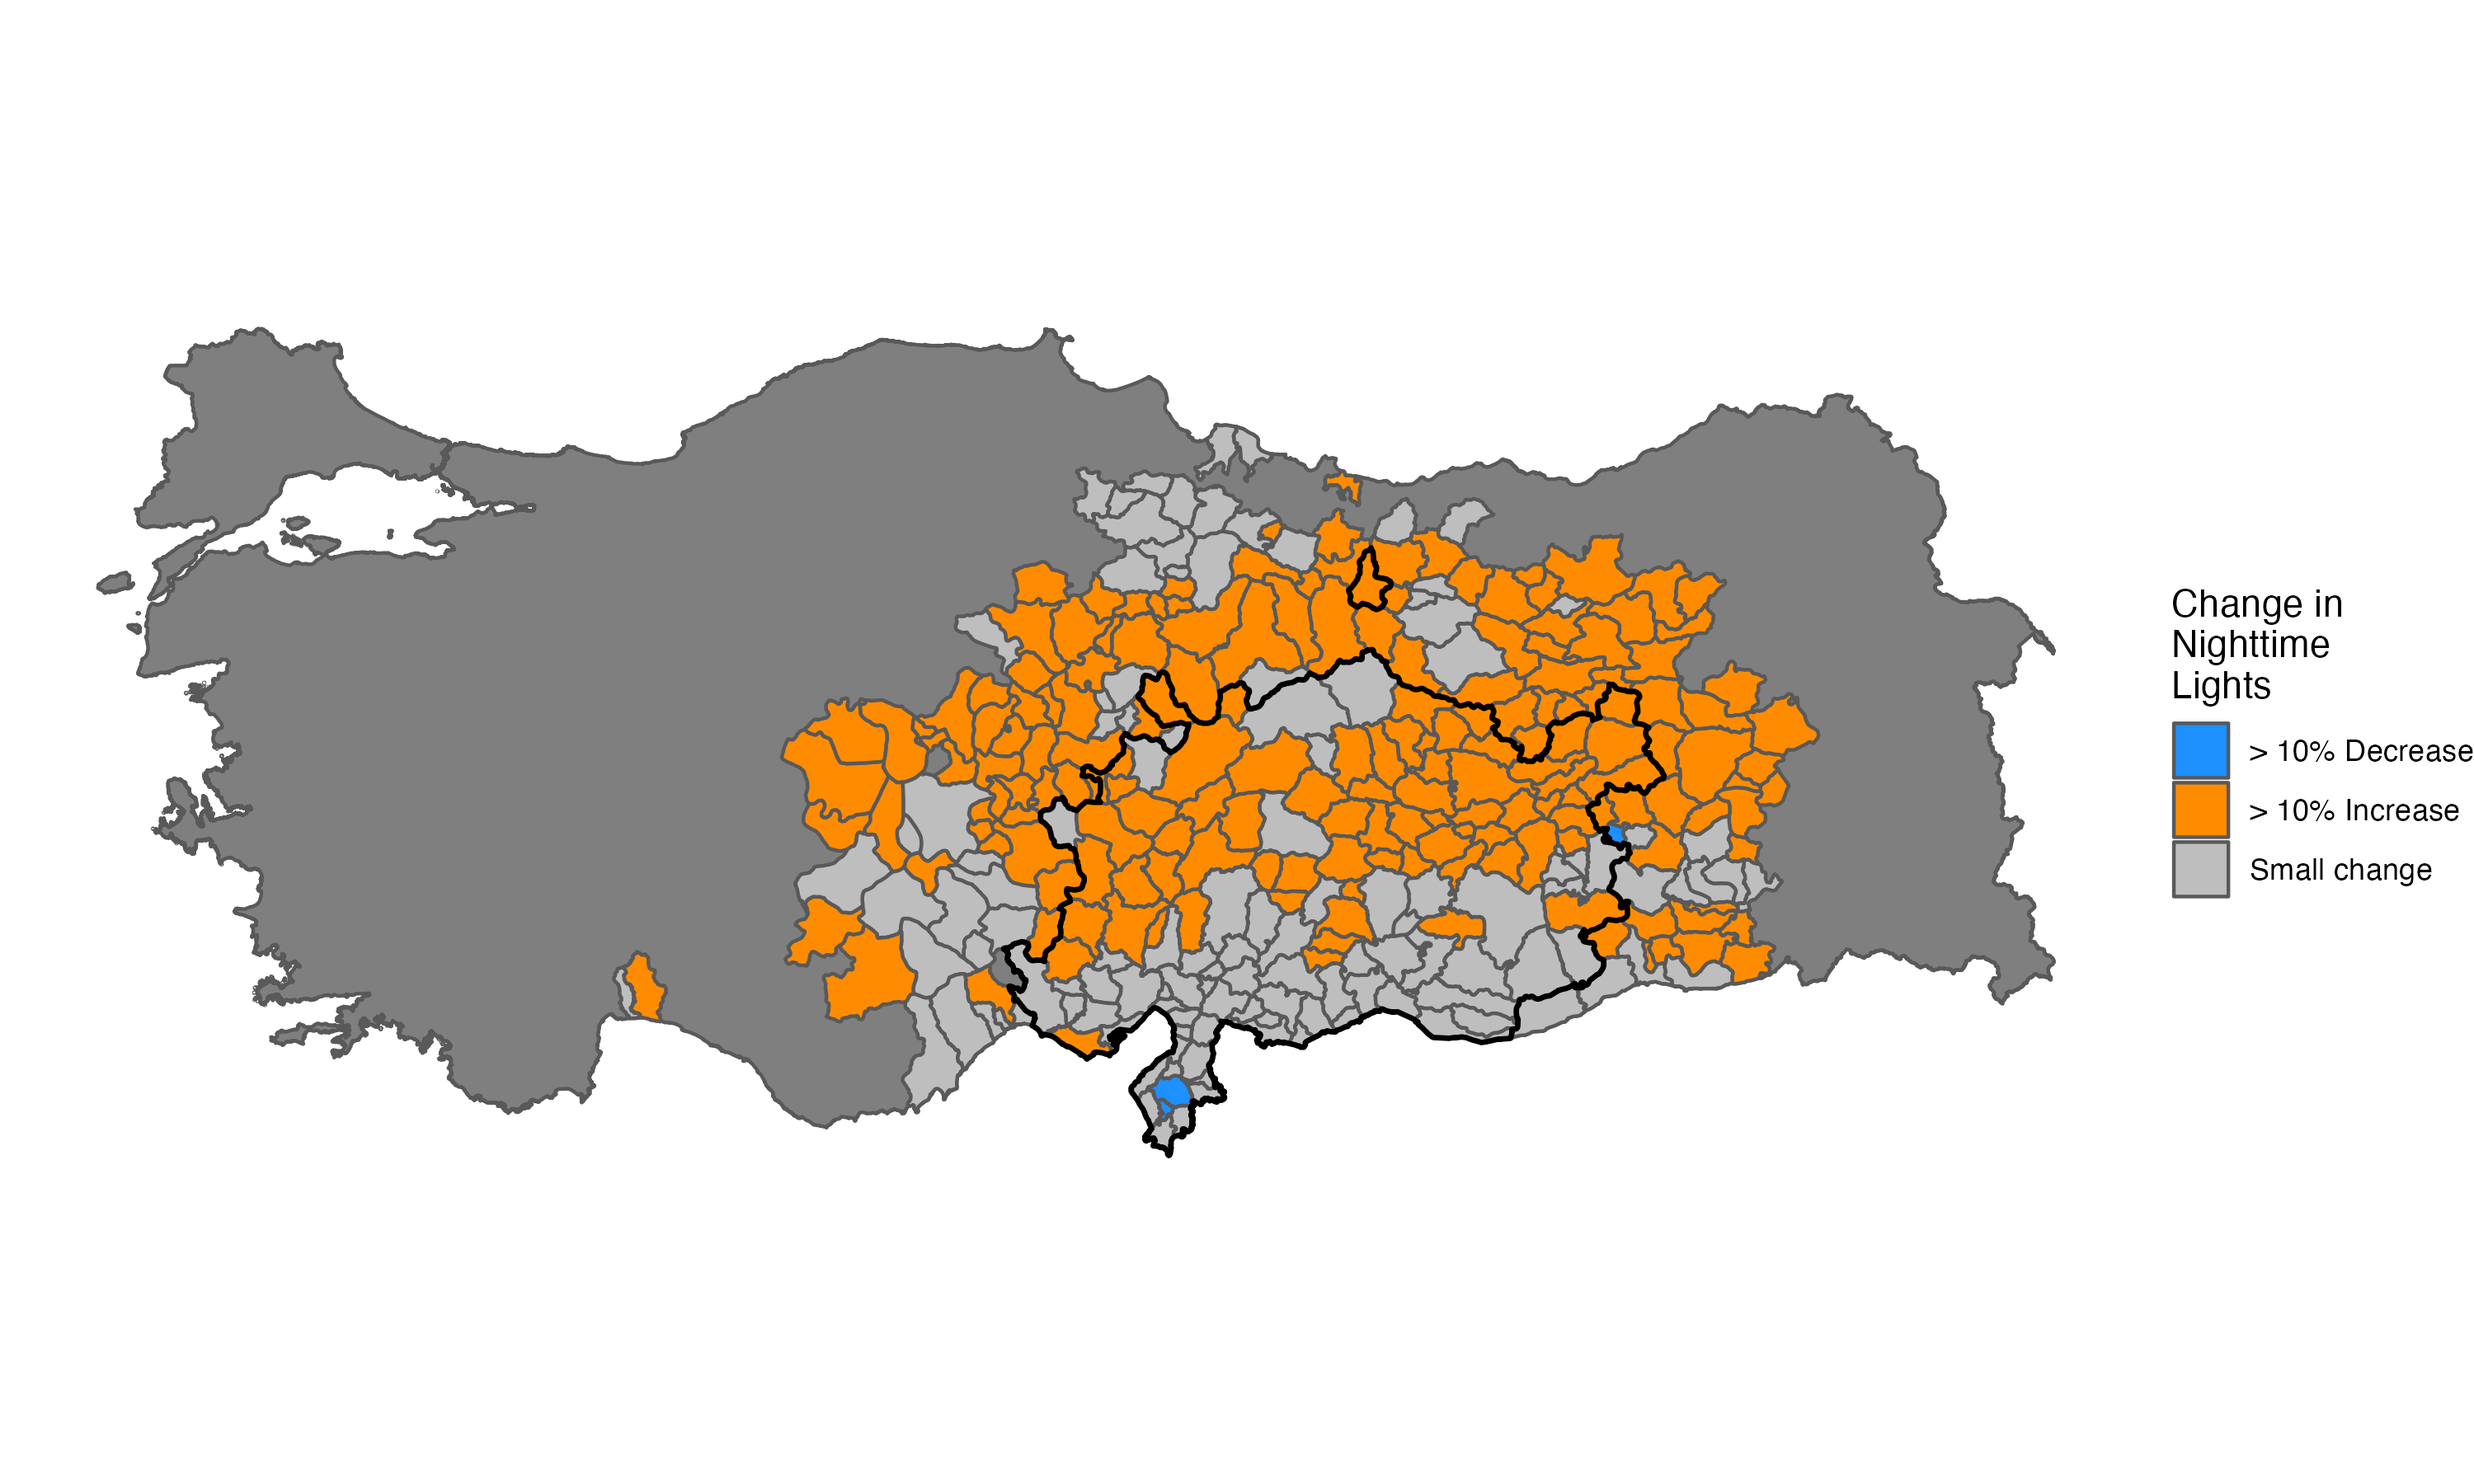
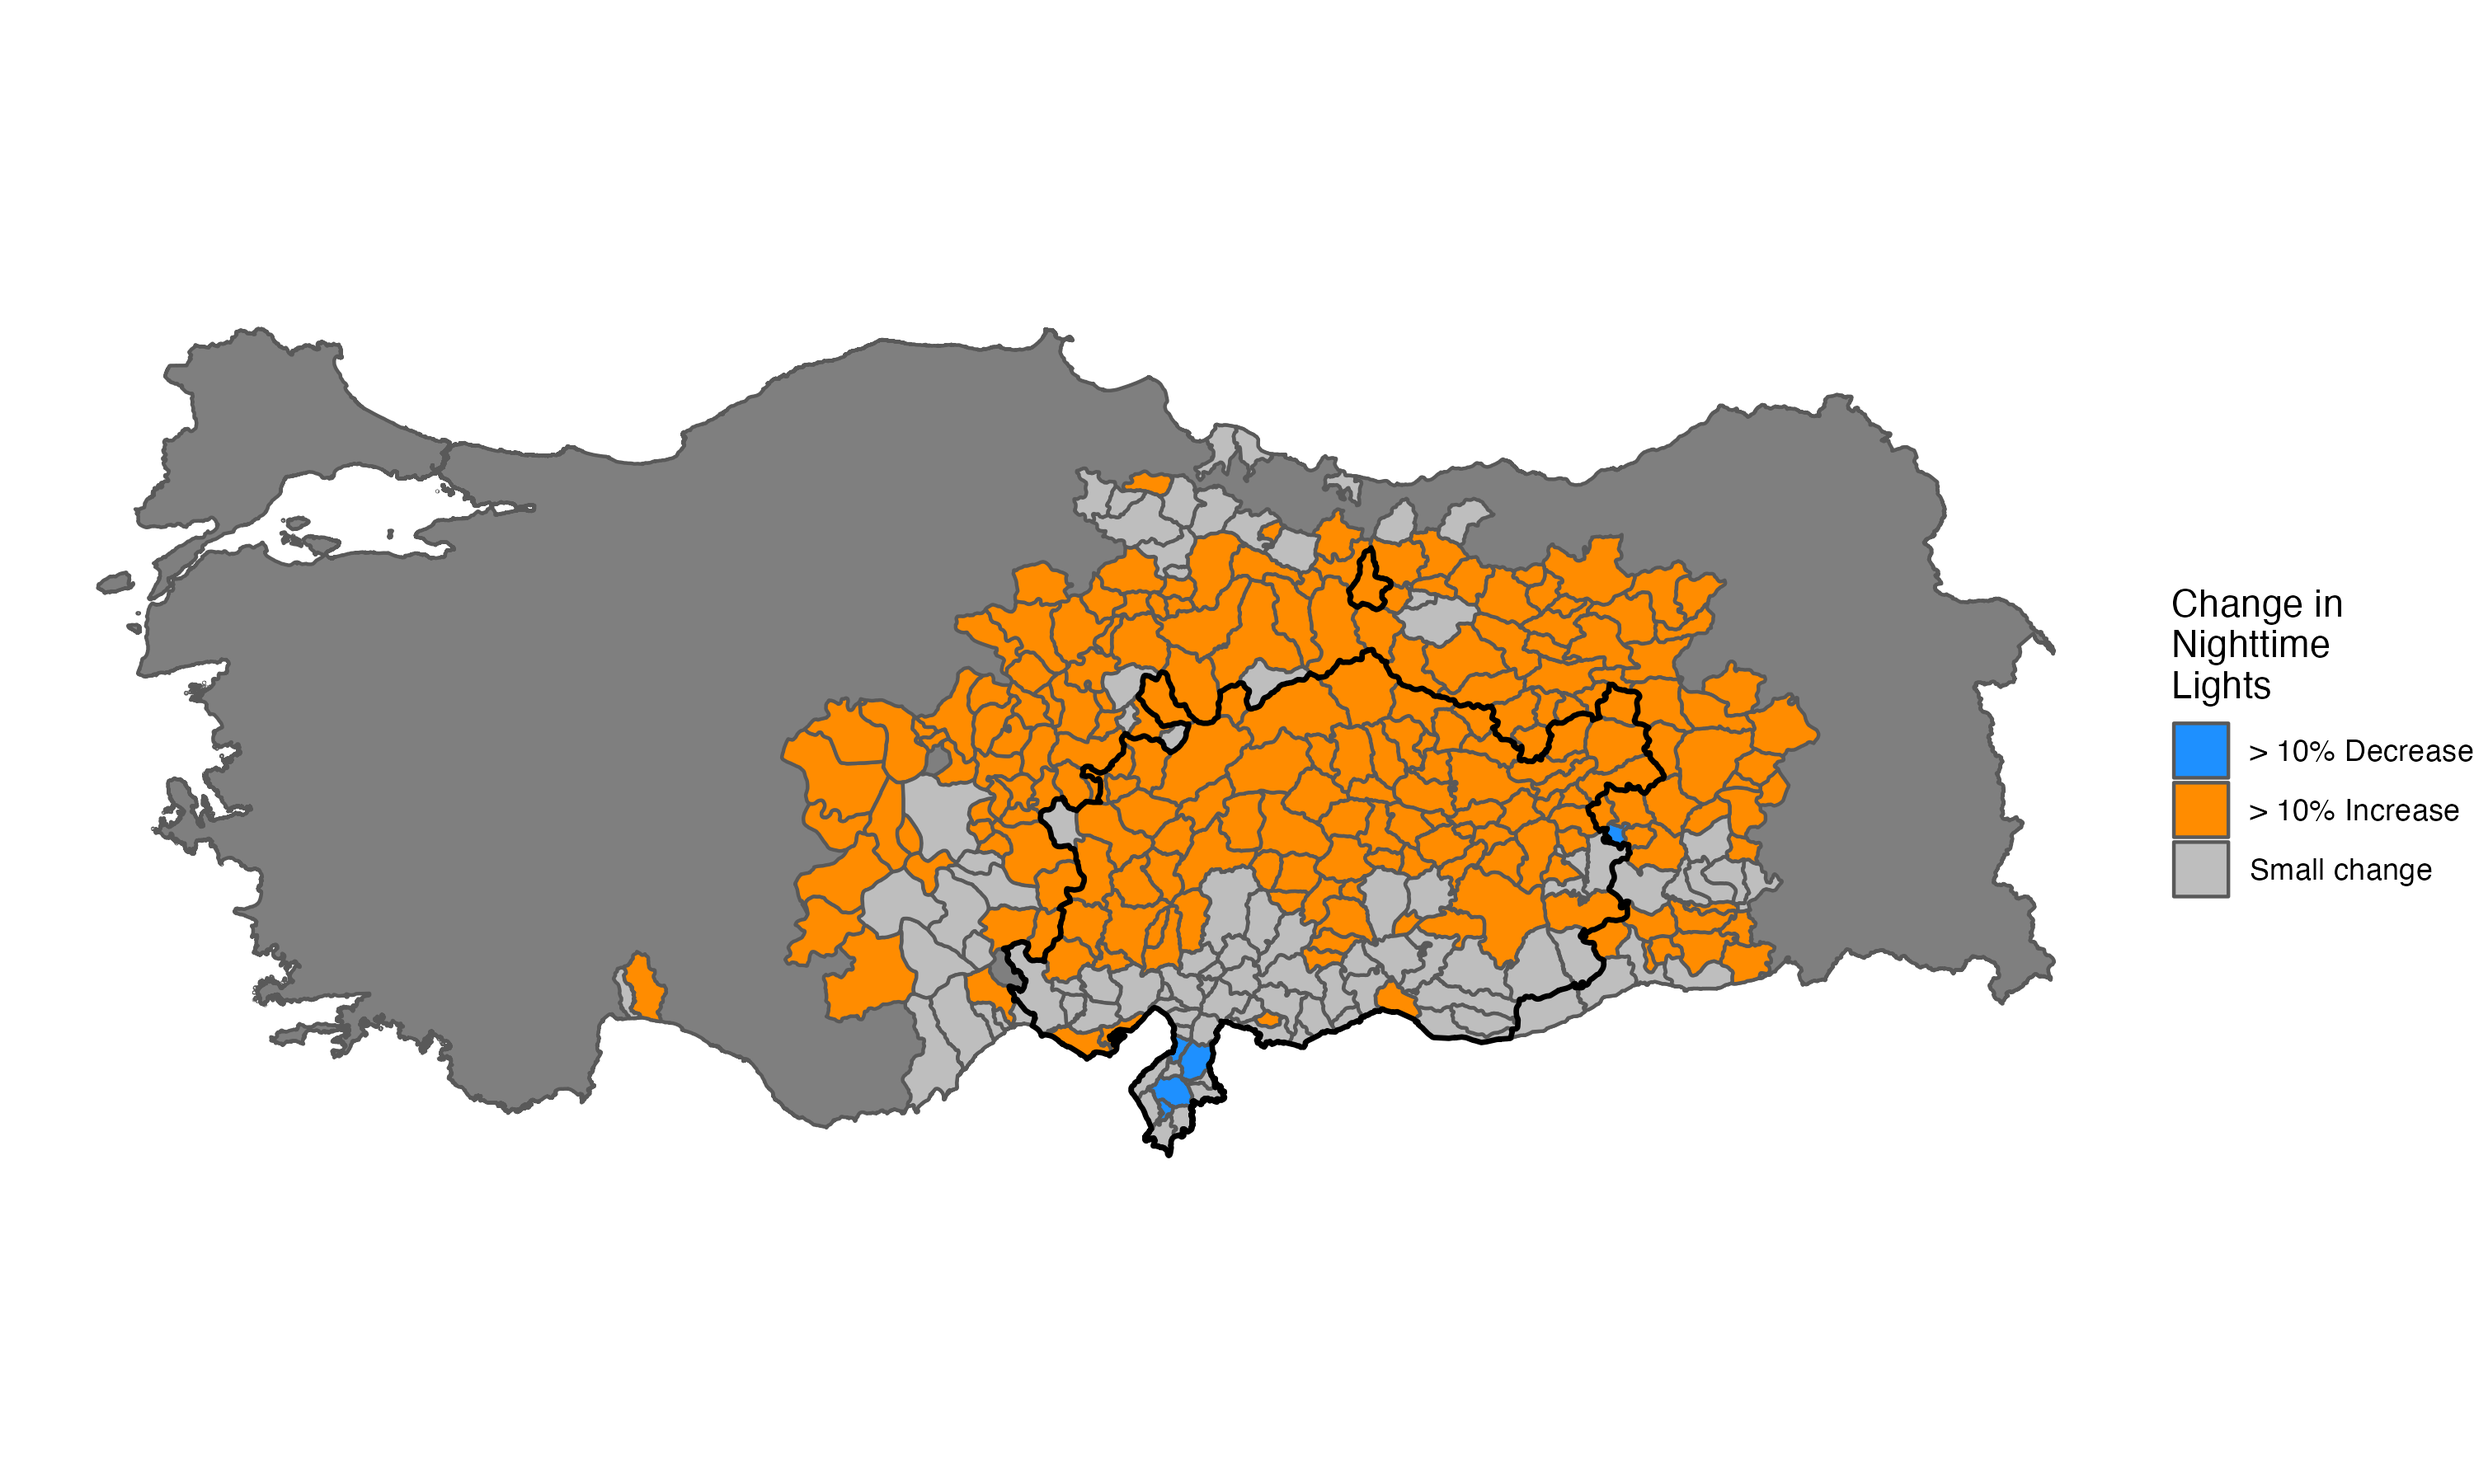
new maps

diff --git a/notebooks/nighttime-lights/README.md b/notebooks/nighttime-lights/README.md
@@ -187,18 +187,50 @@ ggplot() +
   scale_fill_manual(values = c("dodgerblue", "darkorange", "gray"))
 ```
 
-```{figure} ../../reports/figures/ntl_adm2_map_raw.png
+#### Percent Change
+
+```{figure} ../../reports/figures/ntl_adm2_map_ntl_3day_pc.png
+---
+align: center
+---
+Change in nighttime lights from two weeks before the earthquake (February 6, 2023) to three days after the earthquake. The figure shows administrative units where the earthquake had a 5 or more magnitude; the black line outlines administrative units where there was a magnitude of 6 or more.
+```
+
+```{figure} ../../reports/figures/ntl_adm2_map_ntl_2week_pc.png
 ---
 align: center
 ---
 Change in nighttime lights from two weeks before the earthquake (February 6, 2023) to two weeks after the earthquake. The figure shows administrative units where the earthquake had a 5 or more magnitude; the black line outlines administrative units where there was a magnitude of 6 or more.
 ```
 
-```{figure} ../../reports/figures/ntl_adm2_map_cat.png
+```{figure} ../../reports/figures/ntl_adm2_map_ntl_march_pc.png
+---
+align: center
+---
+Change in nighttime lights from two weeks before the earthquake (February 6, 2023) to March. The figure shows administrative units where the earthquake had a 5 or more magnitude; the black line outlines administrative units where there was a magnitude of 6 or more.
+```
+
+#### +/-10% Change
+
+```{figure} ../../reports/figures/ntl_adm2_map_ntl_3day_chng_bin.png
+---
+align: center
+---
+Change in nighttime lights from two weeks before the earthquake (February 6, 2023) to three days after the earthquake. The figure shows administrative units where the earthquake had a 5 or more magnitude; the black line outlines administrative units where there was a magnitude of 6 or more.
+```
+
+```{figure} ../../reports/figures/ntl_adm2_map_ntl_2week_chng_bin.png
 ---
 align: center
 ---
 Change in nighttime lights from two weeks before the earthquake (February 6, 2023) to two weeks after the earthquake. The figure shows administrative units where the earthquake had a 5 or more magnitude; the black line outlines administrative units where there was a magnitude of 6 or more.
+```
+
+```{figure} ../../reports/figures/ntl_adm2_map_ntl_march_chng_bin.png
+---
+align: center
+---
+Change in nighttime lights from two weeks before the earthquake (February 6, 2023) to March. The figure shows administrative units where the earthquake had a 5 or more magnitude; the black line outlines administrative units where there was a magnitude of 6 or more.
 ```
 
 ### Trends in Nighttime Lights
